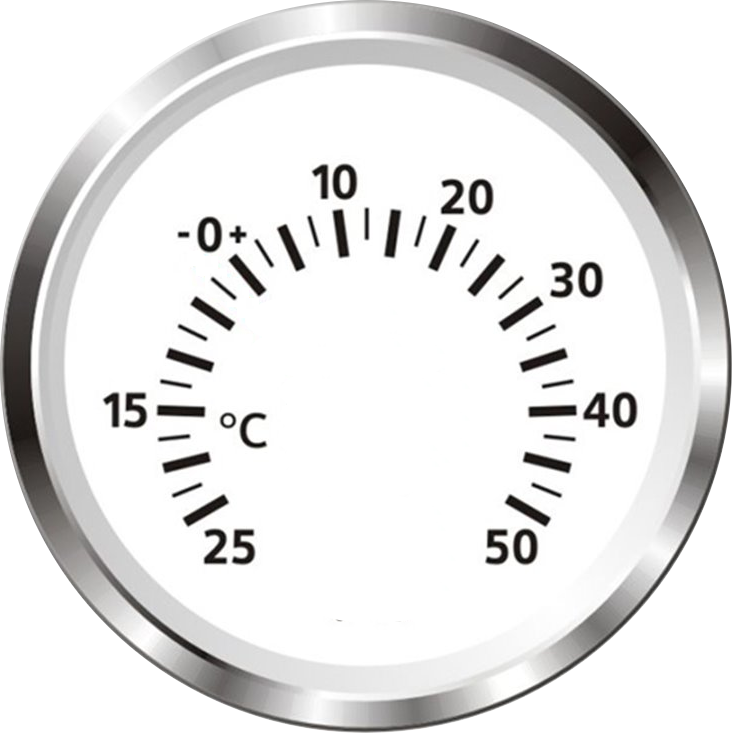
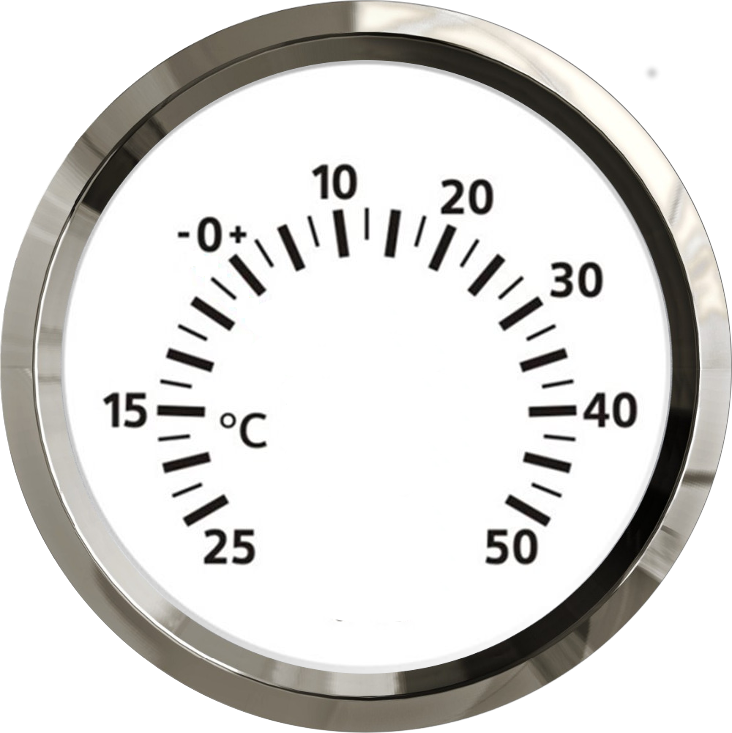
Work on styles and UK1104 Relay support

Changed region(s): [[0.0, 0.0, 1.0, 1.0], [0.8716, 0.09, 0.9016, 0.1201]]

diff --git a/adc-sensors.c b/adc-sensors.c
@@ -69,6 +69,8 @@ struct adData
     time_t age;
 };
 
+static int runThread = ON;
+
 static struct adData adChannel[IOMAX];
 
 static int getPrompt(void)
@@ -77,6 +79,8 @@ static int getPrompt(void)
     size_t cnt;
     int rval = 1;
     extern int errno;
+
+    //(void)usleep(IOWAIT*2); return 0;
 
     if (!serialDev.fd) return 1;
 
@@ -110,17 +114,58 @@ static int getPrompt(void)
     return rval;
 }
 
+static void executeCommand(char *cmdFmt, int chn)
+{
+    char rbuf[ADBZ];
+    size_t cnt;
+
+    if (getPrompt()) {
+        printlog("UK1104: Error in getting the ready prompt");
+        return;
+    }
+
+    cnt = write(serialDev.fd, cmdFmt, strlen(cmdFmt));  // Write the command string
+    if (cnt != strlen(cmdFmt)) {
+        printlog("UK1104: Error in sending command %s", cmdFmt);
+        return;
+    } else {
+        (void)memset(adChannel[chn].adBuffer, 0 , ADBZ);
+        (void)memset(rbuf, 0 , ADBZ);
+
+        for (int try = 0; try < MAXTRY; try++)
+        {
+            (void)usleep(IOWAIT); //printf("RETRY %s %d\n", rbuf, cnt);
+            cnt = read(serialDev.fd, rbuf, ADBZ); // Get the value
+            if (cnt == -1 && errno == EAGAIN) continue;
+            if (adChannel[chn].status == CHAisCLAIMED && cnt > 1) {
+                adChannel[chn].status = CHAisREADY;
+                break;
+            }
+            if (cnt >0) {
+                adChannel[chn].age = time(NULL);
+                (void)strcat(adChannel[chn].adBuffer, rbuf);
+                //printf("catting=%s <- %s, try=%d\n", adChannel[chn].adBuffer, rbuf, try);
+            }
+        }
+    }
+    (void)tcflush(serialDev.fd, TCIFLUSH);
+    //if (strlen(adChannel[chn].adBuffer)) printf("got %s\n", adChannel[chn].adBuffer);
+}
+
 // Reader thread
 void *t_devMgm()
 {
-    char cmdFmt[ADBZ];
-    char rbuf[ADBZ];
-    size_t cnt;
-    extern int errno;
+    static char cmdFmt[ADBZ];
+    int chn;
 
-    while(1)
+    while(ON)
     {
-        for (int chn = 0; chn < IOMAX; chn++)
+        if (runThread == OFF) {
+            sleep(1);
+            continue;
+        }
+
+        for (chn = 0; chn < IOMAX; chn++)
         {
             if (adChannel[chn].status == CHAisNOTUSED)
                 continue;
@@ -148,38 +193,7 @@ void *t_devMgm()
                     }              
                 }
             }
-#if 1
-            if (getPrompt()) {
-                printlog("UK1104: Error in getting the ready prompt");
-                continue;
-            }
-#endif
-            cnt = write(serialDev.fd, cmdFmt, strlen(cmdFmt));  // Write the command string
-            if (cnt != strlen(cmdFmt)) {
-                printlog("UK1104: Error in sending command %s", cmdFmt);
-                continue;
-            } else {
-                (void)memset(adChannel[chn].adBuffer, 0 , ADBZ);
-                (void)memset(rbuf, 0 , ADBZ);
-
-                for (int try = 0; try < MAXTRY; try++)
-                {
-                    (void)usleep(IOWAIT); //printf("RETRY %s %d\n", rbuf, cnt);
-                    cnt = read(serialDev.fd, rbuf, ADBZ); // Get the value
-                    if (cnt == -1 && errno == EAGAIN) continue;
-                    if (adChannel[chn].status == CHAisCLAIMED && cnt > 1) {
-                        adChannel[chn].status = CHAisREADY;
-                        break;
-                    }
-                    if (cnt >0) {
-                        adChannel[chn].age = time(NULL);
-                        (void)strcat(adChannel[chn].adBuffer, rbuf);
-                        //printf("catting=%s <- %s, try=%d\n", adChannel[chn].adBuffer, rbuf, try);
-                    }
-                }
-            }
-            (void)tcflush(serialDev.fd, TCIFLUSH);
-            //if (strlen(adChannel[chn].adBuffer)) printf("got %s\n", adChannel[chn].adBuffer);
+            executeCommand(cmdFmt, chn);
         }
     }
     /* NOT REACHED */
@@ -267,7 +281,7 @@ int adcInit(char *device, int a2dChannel)
     }
     serialDev.fd = fd;
 
-    (void)fcntl(serialDev.fd, F_SETFL, FNDELAY);  // Non-blockning   
+   (void)fcntl(serialDev.fd, F_SETFL, FNDELAY);  // Non-blockning   
 
     adChannel[a2dChannel].mode = a2dChannel == TPMCH? TempIn : AnaogIn;
     adChannel[a2dChannel].status = CHAisCLAIMED;
@@ -296,21 +310,6 @@ float adcRead(int a2dChannel)
 }
 
 /* API */
-void relayInit(int nchannels)
-{
-    if (nchannels > 4) {
-        printlog("Only 4 relays can be handled, not %d", nchannels);
-        nchannels = 4;
-    }
-
-    for (int i=1; i < nchannels+1; i++)
-    {
-        adChannel[i+RELCHA].status = CHAisCLAIMED;
-        adChannel[i+RELCHA].mode = OFF;
-    }
-}
-
-/* API */
 void relaySet(int channels) // A bitmask
 {
     int i, iter;
@@ -328,6 +327,33 @@ void relaySet(int channels) // A bitmask
 }
 
 /* API */
+void relayInit(int nchannels)
+{
+    int cha = 0;
+
+    if (!serialDev.fd) {
+        printlog("UK1104: relayInit: Device not initialized with adcInit()");
+        return;
+    }
+
+    if (nchannels > 4) {
+        printlog("UK1104: relayInit: Relays set to 4, not %d", nchannels);
+        nchannels = 4;
+    }
+
+    // Get the real status in case of a warm restart
+    runThread = OFF;
+    sleep(2);
+
+    executeCommand(RELSGET, RELCHA+1);
+
+    cha = atoi(adChannel[RELCHA+1].adBuffer); //printf("RELSGET=%s, %d\n",adChannel[RELCHA+1].adBuffer,cha);
+    relaySet(cha);
+
+    runThread = ON;
+}
+
+/* API */
 int relayStatus(void)
 {
     int i, iter;
@@ -338,8 +364,15 @@ int relayStatus(void)
         if (adChannel[iter+RELCHA].mode == ON)
             result |= i;
     }
-    return result;
+    return result;  // A bitmask
 }
+
+
+#ifdef TBD
+void ioPinInit(int channel, int direction) {}
+void ioPinset(int channel, bool level) {}
+int ioPinGet(int channel) {}
+#endif
 
 #endif
 

diff --git a/www/in-5-analog.php b/www/in-5-analog.php
@@ -49,15 +49,15 @@
     <body onload="init()">
     <div>
         <div id="adc_left_div">   
-            <iframe scrolling=no src="in-8-volt.php" id="adc_left_fr">
+            <iframe width="256" height="256" frameborder="0" border="0" cellspacing="0" scrolling=no src="in-8-volt.php" id="adc_left_fr">
                 <p>Your browser does not support iframes.</p>
             </iframe>
         </div>
          <div id="adc_center_div">       
-            <iframe scrolling=no src="in-9-curr.php" id="adc_center_fr"></iframe>
+            <iframe  width="256" height="256" frameborder="0" border="0" cellspacing="0" scrolling=no src="in-9-curr.php" id="adc_center_fr"></iframe>
         </div>
         <div id="adc_right_div">       
-            <iframe scrolling=no src="in-10-temp.php" id="adc_right_fr"></iframe>
+            <iframe  width="256" height="256" frameborder="0" border="0" cellspacing="0" scrolling=no src="in-10-temp.php" id="adc_right_fr"></iframe>
         </div> 
         <input style="z-index:100;position:fixed;top:0;" type="button" value="Next" title="Click to shift instrument" onclick="nextinstrument();">
     </div>

diff --git a/wsocknmea.h b/wsocknmea.h
@@ -10,12 +10,6 @@
 #define UK1104              // CanaKit 4-Channel USB Relay Board with 6-Channel A/D Interface
 #define TPMCH   5           // To be identifyed as temp chanel with float type return (UK1104)
 
-enum relaySt {
-    snrelayOFF = 1,
-    snrelayON,
-    snrelayStatus
-};
-
 extern void printlog(char *format, ...);
 
 struct aisShip_struct

diff --git a/README.md b/README.md
@@ -1,5 +1,5 @@
 # websocketNmea
-README Jan-2017
+README Jan-2018
 
 The wsocknmea application package is a marine glass cockpit solution that features electronic marine instrument displays, typically used on private sailing yachts.
 The look and feel of the visualized instruments tries to mimic the look of real physical instrumnts and will by design avoid a digital look.
@@ -20,15 +20,18 @@ Checkout a somewhat outdated presentation here: http://www.hedmanshome.se/conten
 
 Currently there are nine virtual instrument working:
 
-    Log         : SOW, SOG
-    Wind        : Real, Relative and speed
-    Depth       : With low water warning and water temp
-    Compass     : With heading
-    Goggle Map  : With current satellite view and AIS radar view
-    Volt meter  : From ADC
-    Clock       : The vessels time
-    GPS         : Lo, Lat and Heading
-    WaterMaker: : Conductivity, temp, volume (separate project)
+    Log           : SOW, SOG
+    Wind          : Real, Relative and speed
+    Depth         : With low water warning and water temp
+    Compass       : With heading
+    Goggle Map    : With current satellite view and AIS radar view
+    Volt meter    : From ADC
+    Current meter : From ADC
+    Temp meter    : From ADC (Directly in C/F from UK1104)
+    Relay ON/OFF  : From ADC (UK1104 only)
+    Clock         : The vessels time
+    GPS           : Lo, Lat and Heading
+    WaterMaker:   : Conductivity, temp, volume (separate project)
 
 Tested runtime environment:
 - Odroid XU3 (Ubuntu 15.04)
@@ -38,6 +41,7 @@ Tested runtime environment:
 - Browsers: Firefox, IE, Chrome
 
 For the ADC to work properly I recommend the Pi with the MCP3208 SPI Chip 12 bit ADC 8 channels.
+For a more comprehensive I/O Solution use the UK1104 driver instead. See https://www.canakit.com
 I have a Raymarine E97 Network Multifunction Display that feeds kplex with NMEA-183 through a serial line with wind, speed, water temp, gps etc.
 
 Also included in my set-up is the OpenCPN chart plotter that connects to the kplex traffic on the local WiFi on the yacht.
